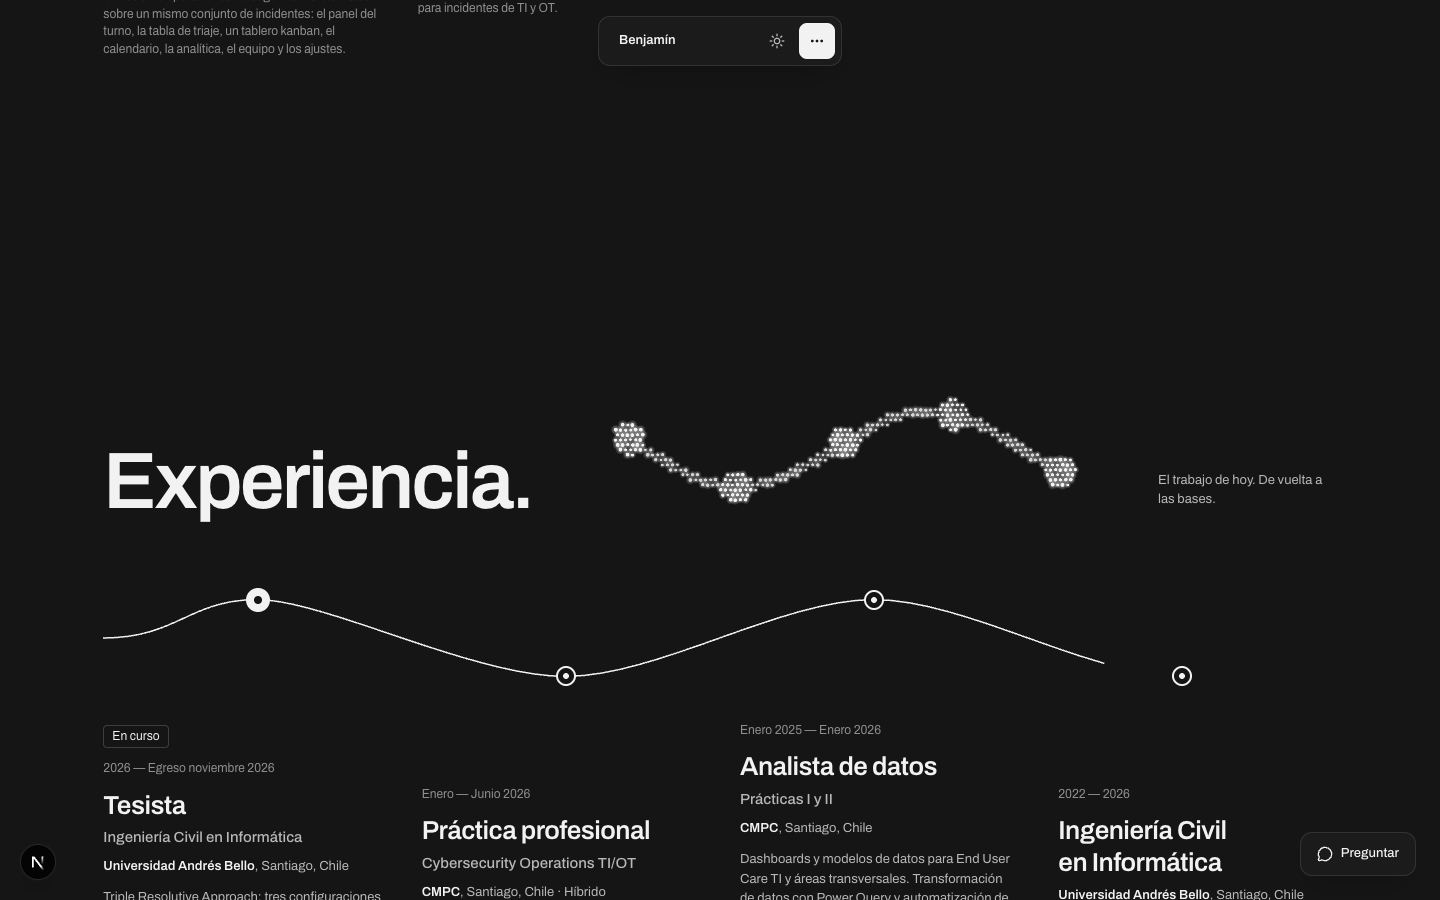
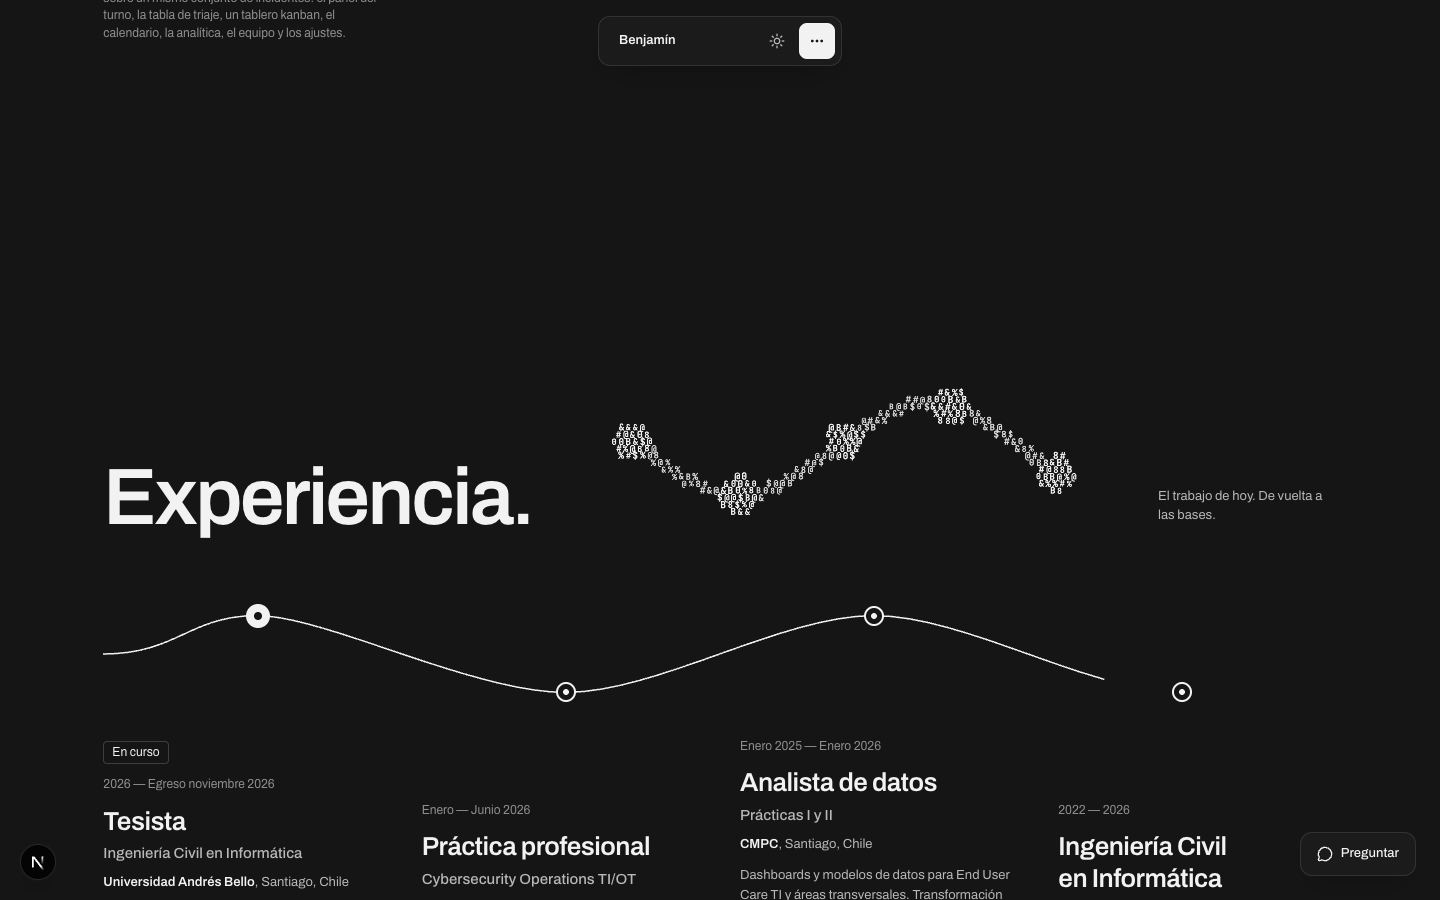
feat(v5): draw the particles as code characters
Each particle is now a code glyph (0 1 { } < > / ; = ...) in the site's
monospace, pre-rendered once per colour into a strip and blitted each frame.
The portrait reads as ASCII art; text and drawings use heavier glyphs
(# @ % & $ 0 8) so letters fill in, and a few glyphs change while in flight.
Wider grid so each character stays legible, larger figure zones, and help
text and descriptions now speak of code instead of dots.

diff --git a/src/components/ui/CampoParticulas.tsx b/src/components/ui/CampoParticulas.tsx
@@ -32,6 +32,12 @@ type Forma = { tipo: "imagen"; src: string } | { tipo: "texto"; texto: string } 
 
 const NIVELES = 6;
 
+/** Los caracteres de código con los que se dibuja todo. */
+const LIVIANOS = "01{}<>/;=()[]*+-#$&|!?:._%@~^";
+/** Las letras y dibujos usan caracteres con más tinta, para que se lean llenos. */
+const PESADOS = "#@%&$08B";
+const GLIFOS = LIVIANOS + PESADOS;
+
 /** Cuatro carpetas, como las tarjetas de proyectos. */
 const carpetas: Dibujo = (c, w, h) => {
   const n = 4;
@@ -152,7 +158,7 @@ function muestrear(forma: Forma, img: HTMLImageElement | null, W: number, H: num
   }
 
   // Lo dibujado pide puntos más separados que el retrato, para que se lean como puntos.
-  const minimo = forma.tipo === "imagen" ? 3 : 5;
+  const minimo = forma.tipo === "imagen" ? 7 : 7;
   const paso = Math.max(minimo, Math.min(10, Math.round(Math.sqrt((rw * rh * cobertura) / objetivo))));
   const datos = c.getImageData(0, 0, lienzo.width, lienzo.height).data;
   const puntos: Punto[] = [];
@@ -220,6 +226,7 @@ export function CampoParticulas({ idioma }: { idioma: string }) {
     let desvioX = new Float32Array(0);
     let desvioY = new Float32Array(0);
     let escala = new Float32Array(0);
+    let glifo = new Uint8Array(0);
     let nivel = new Uint8Array(0);
     let orden = new Uint32Array(0);
     let scrollPrevio = 0;
@@ -271,6 +278,12 @@ export function CampoParticulas({ idioma }: { idioma: string }) {
       ctx!.setTransform(dpr, 0, 0, dpr, 0, 0);
       if (document.fonts?.ready) await document.fonts.ready;
       const fuente = getComputedStyle(document.body).fontFamily;
+      const prueba = document.createElement("span");
+      prueba.className = "mono";
+      document.body.appendChild(prueba);
+      fuenteMono = getComputedStyle(prueba).fontFamily || "monospace";
+      prueba.remove();
+      tiras.clear();
       const ancho = W >= 1024;
       const nuevas: Zona[] = [];
       for (const el of Array.from(document.querySelectorAll<HTMLElement>("[data-particulas]"))) {
@@ -279,7 +292,7 @@ export function CampoParticulas({ idioma }: { idioma: string }) {
         const r = el.getBoundingClientRect();
         if (!formas.length || r.width < 20 || r.height < 20) continue;
         const margen = (ancho ? el.dataset.margen : el.dataset.margenMovil ?? el.dataset.margen)?.split(",").map(Number) ?? [0, 0, 0, 0];
-        const objetivoBase = escena === "inicio" ? 7000 : 2200;
+        const objetivoBase = escena === "inicio" ? 3400 : 1200;
         const objetivo = Math.max(500, Math.round(objetivoBase * Math.min(1, (r.width * r.height) / (900 * 700)) ** 0.5 * (tactil ? 0.7 : 1)));
         const muestras = [];
         for (const f of formas) {
@@ -316,13 +329,15 @@ export function CampoParticulas({ idioma }: { idioma: string }) {
       desvioX = new Float32Array(n);
       desvioY = new Float32Array(n);
       escala = new Float32Array(n);
+      glifo = new Uint8Array(n);
       nivel = new Uint8Array(n);
       orden = new Uint32Array(n);
       for (let k = 0; k < n; k++) {
         turno[k] = Math.random();
         desvioX[k] = (Math.random() - 0.5) * W * 0.22;
         desvioY[k] = (Math.random() - 0.5) * H * 0.12;
-        escala[k] = 0.85 + Math.random() * 0.3;
+        escala[k] = 0.9 + Math.random() * 0.2;
+        glifo[k] = Math.floor(Math.random() * LIVIANOS.length);
         if (primeraVez || k >= viejo) {
           // Entrada: los puntos llegan desde toda la pantalla.
           px[k] = Math.random() * W;
@@ -342,11 +357,31 @@ export function CampoParticulas({ idioma }: { idioma: string }) {
       despertar();
     }
 
-    // Cada punto es un círculo limpio y sólido, con aire entre ellos.
-    function dibujar(tam: number, color: string) {
+    // Cada partícula es un carácter de código. Los caracteres se pintan una
+    // vez por color en una tira (a 2x) y cada cuadro solo los copia.
+    const TIRA = 32;
+    let fuenteMono = "monospace";
+    const tiras = new Map<string, HTMLCanvasElement>();
+    function tira(color: string) {
+      let t = tiras.get(color);
+      if (t) return t;
+      t = document.createElement("canvas");
+      t.width = TIRA * GLIFOS.length;
+      t.height = TIRA;
+      const c = t.getContext("2d")!;
+      c.fillStyle = color;
+      c.font = `600 ${TIRA * 0.72}px ${fuenteMono}`;
+      c.textAlign = "center";
+      c.textBaseline = "middle";
+      for (let i = 0; i < GLIFOS.length; i++) c.fillText(GLIFOS[i], i * TIRA + TIRA / 2, TIRA / 2 + 1);
+      tiras.set(color, t);
+      return t;
+    }
+
+    function dibujar(tam: number, color: string, pesado: boolean) {
       ctx!.clearRect(0, 0, W, H);
-      ctx!.fillStyle = color;
-      // Orden por nivel de brillo (conteo): un recorrido por punto.
+      const t = tira(color);
+      // Orden por nivel de brillo (conteo): un recorrido por partícula.
       const cuentas = new Uint32Array(NIVELES + 2);
       for (let k = 0; k < n; k++) cuentas[nivel[k] + 1]++;
       for (let l = 1; l <= NIVELES + 1; l++) cuentas[l] += cuentas[l - 1];
@@ -356,18 +391,17 @@ export function CampoParticulas({ idioma }: { idioma: string }) {
         const desde = cuentas[l];
         const hasta = cuentas[l + 1];
         if (hasta <= desde) continue;
-        ctx!.globalAlpha = 0.25 + (l / NIVELES) * 0.75;
-        const base = tam * (0.75 + (l / NIVELES) * 0.45) * 0.58;
-        ctx!.beginPath();
+        ctx!.globalAlpha = 0.2 + (l / NIVELES) * 0.8;
+        // La caja del carácter: el cuerpo es ~72 % de la celda.
+        const base = (tam / 0.72) * (0.85 + (l / NIVELES) * 0.25);
         for (let j = desde; j < hasta; j++) {
           const k = orden[j];
           const y = py[k];
-          if (y < -8 || y > H + 8) continue;
-          const r = base * escala[k];
-          ctx!.moveTo(px[k] + r, y);
-          ctx!.arc(px[k], y, r, 0, Math.PI * 2);
+          if (y < -16 || y > H + 16) continue;
+          const d = base * escala[k];
+          const g = pesado ? LIVIANOS.length + (glifo[k] % PESADOS.length) : glifo[k];
+          ctx!.drawImage(t, g * TIRA, 0, TIRA, TIRA, px[k] - d / 2, y - d / 2, d, d);
         }
-        ctx!.fill();
       }
       ctx!.globalAlpha = 1;
     }
@@ -391,8 +425,8 @@ export function CampoParticulas({ idioma }: { idioma: string }) {
       // El viaje usa el tramo central del scroll entre las dos zonas: cerca
       // de cada una, la figura se queda armada para leerla.
       const viaje = reducido ? (avance < 0.5 ? 0 : 1) : Math.min(1, Math.max(0, (avance - 0.15) / 0.7));
-      const tamA = Math.max(1.4, Math.min(3.2, (A.pasos[forma(A)] ?? 5) * 0.42));
-      const tamB = Math.max(1.4, Math.min(3.2, (B.pasos[forma(B)] ?? 5) * 0.42));
+      const tamA = Math.max(8, Math.min(15, (A.pasos[forma(A)] ?? 9) * 1.15));
+      const tamB = Math.max(8, Math.min(15, (B.pasos[forma(B)] ?? 9) * 1.15));
       const tam = tamA + (tamB - tamA) * viaje;
       const color = (viaje < 0.5 ? A : B).oscuroFijo ? "#F2F2F2" : colorPagina;
 
@@ -467,7 +501,11 @@ export function CampoParticulas({ idioma }: { idioma: string }) {
           resto += Math.abs(ex) + Math.abs(ey);
         }
       }
-      dibujar(tam, color);
+      if (!reducido && viaje > 0 && viaje < 1) {
+        for (let i = 0; i < n * 0.02; i++) glifo[Math.floor(Math.random() * n)] = Math.floor(Math.random() * LIVIANOS.length);
+      }
+      const destino = viaje < 0.5 ? A : B;
+      dibujar(tam, color, !destino.invierte[forma(destino)]);
       if (reducido) return;
       // Quieto, en su lugar y sin cursor: se apaga hasta el próximo scroll.
       // (Mirar solo la velocidad no basta: los puntos oscilan en fase y en el

diff --git a/src/i18n/diccionario.ts b/src/i18n/diccionario.ts
@@ -49,11 +49,11 @@ const diccionario = {
       altFoto:
         "Benjamín Peña Díaz, de perfil y con lentes de sol, frente a un cerro. Fotografía en blanco y negro.",
       particulas: {
-        descripcion: "Retrato de Benjamín Peña Díaz dibujado con miles de puntos blancos y grises que se apartan del cursor y vuelven a armarse.",
+        descripcion: "Retrato de Benjamín Peña Díaz dibujado con miles de caracteres de código que se apartan del cursor y vuelven a armarse.",
         aNombre: "Armar mi nombre",
         aRetrato: "Armar mi retrato",
-        ayudaCursor: "Pasa el cursor por los puntos.",
-        ayudaToque: "Toca los puntos.",
+        ayudaCursor: "Pasa el cursor por el código.",
+        ayudaToque: "Toca el código.",
       },
     },
     sobreMi: {
@@ -126,7 +126,7 @@ const diccionario = {
       volverArriba: "Volver arriba",
       derechos: "Benjamín Peña Díaz",
       construidoCon: "Hecho con Next.js y Tailwind CSS.",
-      particulas: "El nombre «Benjamín» escrito con puntos que se apartan al pasar el cursor y vuelven a su lugar.",
+      particulas: "El nombre «Benjamín» escrito con caracteres de código que se apartan al pasar el cursor y vuelven a su lugar.",
     },
     preguntas: {
       boton: "Preguntar",
@@ -187,11 +187,11 @@ const diccionario = {
       altFoto:
         "Benjamín Peña Díaz in profile, wearing sunglasses, in front of a hillside. Black and white photograph.",
       particulas: {
-        descripcion: "Portrait of Benjamín Peña Díaz drawn with thousands of white and grey dots that move away from the cursor and come back together.",
+        descripcion: "Portrait of Benjamín Peña Díaz drawn with thousands of code characters that move away from the cursor and come back together.",
         aNombre: "Spell my name",
         aRetrato: "Draw my portrait",
-        ayudaCursor: "Move your cursor over the dots.",
-        ayudaToque: "Tap the dots.",
+        ayudaCursor: "Move your cursor over the code.",
+        ayudaToque: "Tap the code.",
       },
     },
     sobreMi: {
@@ -264,7 +264,7 @@ const diccionario = {
       volverArriba: "Back to top",
       derechos: "Benjamín Peña Díaz",
       construidoCon: "Built with Next.js and Tailwind CSS.",
-      particulas: "The name “Benjamín” written in dots that move aside under the cursor and settle back into place.",
+      particulas: "The name “Benjamín” written in code characters that move aside under the cursor and settle back into place.",
     },
     preguntas: {
       boton: "Ask me",

diff --git a/src/components/ui/Encabezado.tsx b/src/components/ui/Encabezado.tsx
@@ -11,7 +11,7 @@ export function EncabezadoSeccion({ id, titulo, bajada, extra, bajadaAbajo, figu
   // Zona donde el campo de partículas arma la figura de la sección: entre el
   // título y la nota en pantallas anchas, arriba del título en celulares.
   const zona = figura ? (
-    <div aria-hidden="true" data-particulas={figura} className="order-first h-24 w-full md:order-none md:h-36 md:w-auto md:flex-1 md:self-stretch md:mx-8 lg:mx-14" />
+    <div aria-hidden="true" data-particulas={figura} className="order-first h-24 w-full md:order-none md:h-44 md:w-auto md:flex-1 md:self-stretch md:mx-8 lg:mx-14" />
   ) : null;
   if (bajadaAbajo) {
     return (

diff --git a/src/components/sections/SobreMi.tsx b/src/components/sections/SobreMi.tsx
@@ -21,7 +21,7 @@ export function SobreMi({ t }: Props) {
           </div>
         </div>
         <div className="flex flex-col justify-end gap-8">
-          <div aria-hidden="true" data-particulas="sobre" className="h-32 md:h-44" />
+          <div aria-hidden="true" data-particulas="sobre" className="h-36 md:h-56" />
           <p className="max-w-[28ch] text-guia text-atenuado">
             <Negritas texto={h.intro} />
           </p>

diff --git a/README.md b/README.md
@@ -32,7 +32,10 @@ abre a los lados hasta armar la de abajo (si el scroll se detiene, la nube
 queda a medio camino). Cerca de cada sección la figura queda armada para
 leerla. Solo viajan los puntos que la figura de destino necesita y en el aire
 van atenuados; el canvas va detrás del contenido, así que tarjetas y textos lo
-tapan. Cada punto es un círculo limpio, con aire entre ellos, y el viaje es
+tapan. Cada partícula es un carácter de código (`0 1 { } < > / ; =`…) en la
+letra monoespaciada del sitio: el retrato queda como arte ASCII, las letras
+y dibujos usan caracteres con más tinta (`# @ % & $ 0 8`) para leerse llenos y
+en el aire algunos caracteres cambian. El viaje es
 lento: los puntos flotan detrás del scroll y tardan cerca de un segundo en
 asentarse. El cursor (o el dedo) los
 aparta y vuelven a su lugar.
